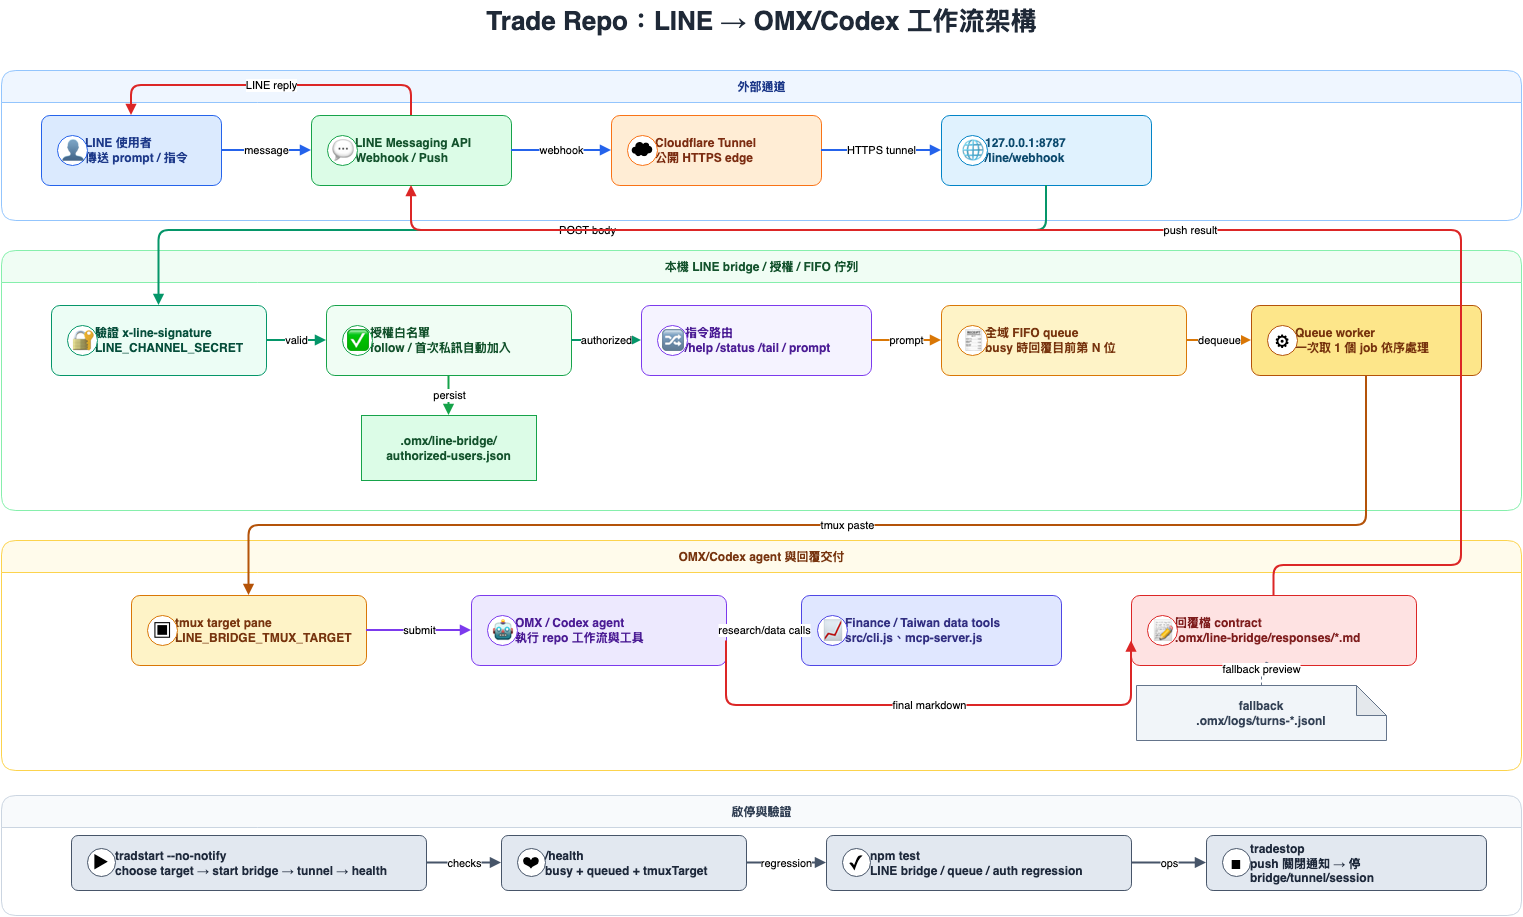
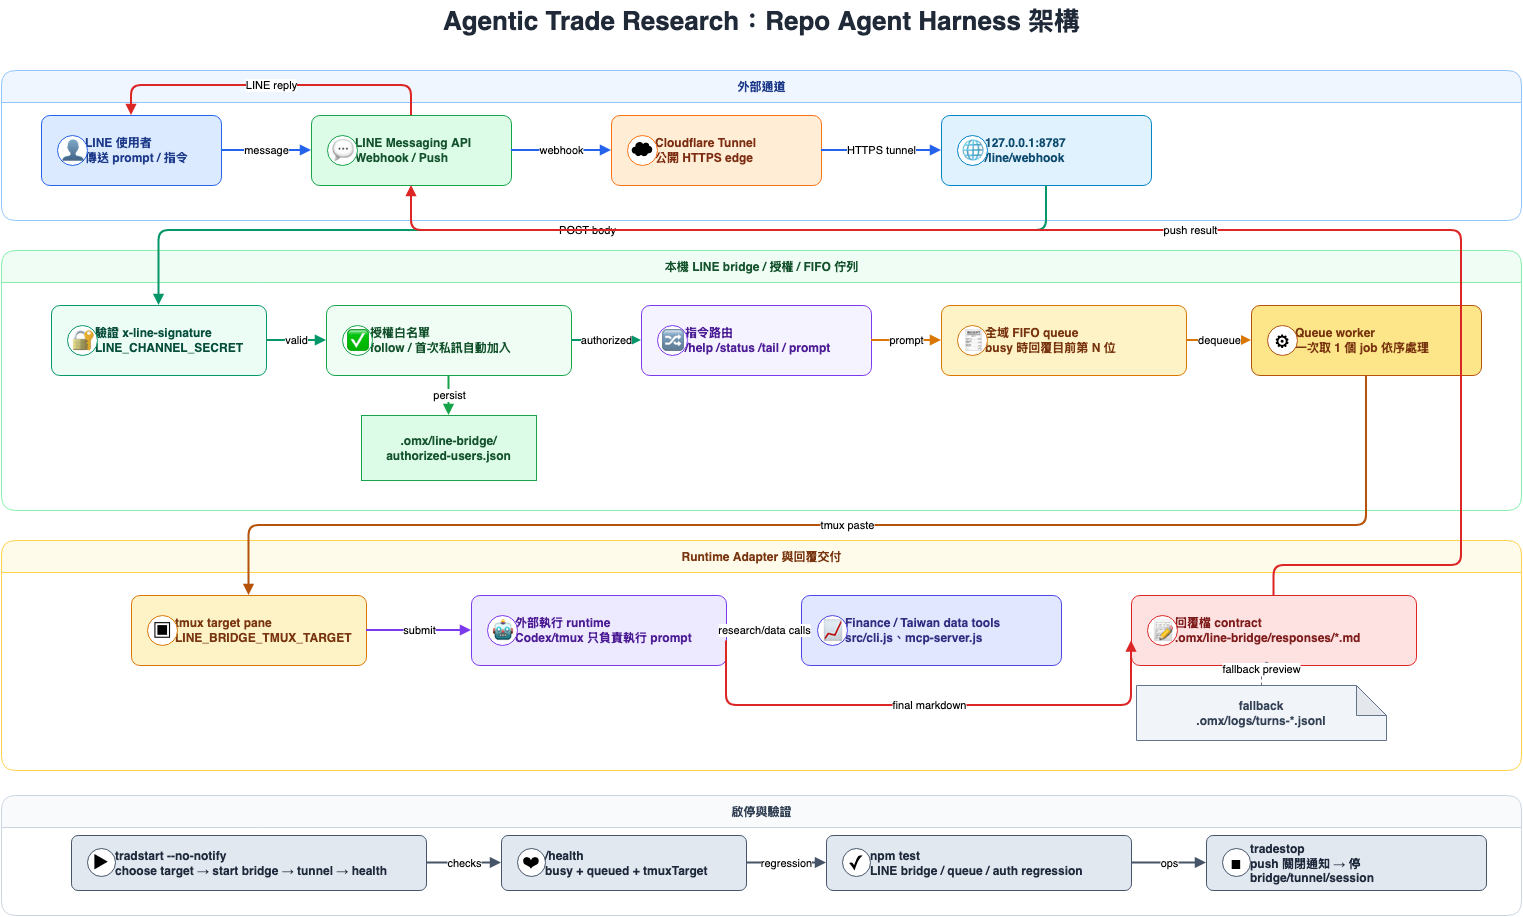
Clarify the repo-native agent harness architecture
Constraint: Portfolio README should describe this repository's own harness modules, not external OMX/Codex agent internals.
Rejected: Present OMX native agents as repo architecture | those agents are external runtime surfaces, not checked-in project implementation.
Confidence: high
Scope-risk: narrow
Directive: Keep README and diagram focused on repo modules: LINE bridge, auth, FIFO scheduler, runtime adapter, finance MCP, response dispatcher, ops supervisor.
Tested: Fetched README from origin/main before editing; regenerated PNG from draw.io source; viewed the rendered PNG; verified diff whitespace with git diff --check.
Not-tested: Full npm test not rerun because this is documentation/image-only.

Changed region(s): [[0.2777, 0.0, 0.7098, 0.0611], [0.432, 0.5802, 0.5555, 0.6107], [0.3395, 0.6718, 0.4629, 0.7023]]

diff --git a/README.md b/README.md
@@ -1,67 +1,64 @@
-# Codex Finance Tools
+# Agentic Trade Research
 
-這是一套給 Codex 使用的輕量財經資料 CLI 工具。
+這是一套把 LINE 指令入口、授權白名單、FIFO 任務佇列、tmux runtime adapter 與財經 MCP/CLI 工具串成一條本機 agent workflow 的研究 harness。
 
 重點：
 
 - **Codex 負責分析與推理**：使用你現有的 Codex / ChatGPT 額度。
-- **本 repo 只負責抓資料**：從外部財經資料 API 取得資料，輸出 JSON 或 Markdown。
-- **Agent workflow management harness**：LINE、tmux、MCP、OMX/Codex 與資料工具被包成一個可啟停、可排隊、可驗證的本機 agent 操作平台。
+- **本 repo 負責 agent harness 與資料工具**：把 LINE webhook、授權、排程、tmux runtime adapter、MCP/CLI 金融資料工具與回覆交付串成可運作的本機 agent workflow。
+- **低 token evidence pipeline**：MCP 預設 `compact-json`，並提供 `research-pack`、`outputFields`、`maxRows`，讓 agent 讀到精簡但可追溯的資料輸出。
 
-## 作品集版架構總覽：Agent Workflow Management Harness
+## 作品集版架構總覽：Repo-native Agent Harness
 
-這個 repo 的核心不是單一 CLI，而是一個 **本機 agent harness**：
+這個 repo 本身定義的是一組 **repo-native logical agents / harness modules**。它不把外部 Codex/OMX 的 agent/skill 當成專案內容，而是提供一個可由手機操作、可授權、可排隊、可呼叫金融資料工具、可交付 Markdown 結果的本機 agent workflow harness。
 
-1. **LINE bridge** 把手機訊息轉成可控的 Codex/tmux prompt。
-2. **授權層** 用 LINE friend / userId 白名單控管誰能操作本機 agent。
-3. **全域 FIFO queue** 讓多位 LINE 使用者同時送 prompt 時不漏訊息，依序送進同一個 Codex/tmux pane。
-4. **Codex / OMX runtime** 負責推理、規劃、修改 repo、驗證與產生回覆。
-5. **trade-finance MCP / CLI tools** 提供低 token 的結構化金融資料工具。
-6. **response-file contract** 要求 Codex 把完整 LINE-safe Markdown 回覆寫入 `.omx/line-bridge/responses/*.md`，再由 bridge push 回原使用者。
+主要資料流：
+
+1. **Message Intake Agent** 接收 LINE webhook，驗證簽章並解析使用者訊息。
+2. **Authorization Agent** 透過 LINE friend / userId 本機白名單控管可操作者。
+3. **Command Router Agent** 區分 `/help`、`/status`、`/tail` 與一般 prompt。
+4. **FIFO Scheduler Agent** 在多使用者同時送 prompt 時排隊，回覆目前第 N 位，避免遺失任務。
+5. **Runtime Adapter Agent** 把排程後的 prompt 安全送進指定 tmux pane，讓外部 Codex runtime 執行。
+6. **Finance Data Tool Agent** 以 MCP/CLI 方式提供美股、台股、新聞、公告、財報、估值等低 token evidence。
+7. **Response Dispatcher Agent** 讀取 response-file contract 或 fallback turn log，將結果 push 回原 LINE 使用者。
+8. **Ops Supervisor** 負責 `tradstart` / `tradestop`，管理 bridge process、Cloudflare tunnel、tmux target 與 runtime state。
 
 架構圖 PNG：[`docs/diagrams/trade-line-bridge-workflow.png`](docs/diagrams/trade-line-bridge-workflow.png)  
+架構圖 source：[`docs/diagrams/trade-line-bridge-workflow.drawio`](docs/diagrams/trade-line-bridge-workflow.drawio)
 
-![Trade LINE Bridge Workflow](docs/diagrams/trade-line-bridge-workflow.png)
+![Agentic Trade Research Repo Harness](docs/diagrams/trade-line-bridge-workflow.png)
 
-### Agent / workflow 定義在哪裡？
+### Repo 內的 agent / harness modules
 
-這個專案刻意把「repo 內 harness」與「Codex/OMX agent 定義」分層：
+> 這裡的「agent」指本 repo 內負責一段自主流程的 logical agent/module；不是外部 OMX/Codex native agent 定義。
 
-- **Repo 內沒有 checked-in `AGENTS.md`**。目前看到的 AGENTS.md 指令是 OMX/Codex session 注入的 runtime contract，不是這個 repo commit 的檔案。
-- **Codex native agents** 安裝在使用者層：`~/.codex/agents/*.toml`，每個 agent 通常搭配 `~/.codex/prompts/*.md`。
-- **OMX workflow skills** 安裝在：`~/.codex/skills/*/SKILL.md`。
-- **Repo-native workflow prompts** 放在：`workflows/*.md`，它們不是常駐 agent，而是給 Codex 執行投資研究時引用的流程模板。
+| Repo logical agent / module | 主要檔案 | 責任 |
+| --- | --- | --- |
+| Message Intake Agent | `src/line-bridge.js` | 建立 LINE webhook server、驗證 `x-line-signature`、解析 LINE text/follow events |
+| Authorization Agent | `src/line-bridge.js`, `.omx/line-bridge/authorized-users.json`（runtime ignored） | 自動授權加入好友/首次私訊使用者、維護本機白名單、拒絕未授權來源 |
+| Command Router Agent | `src/line-bridge.js` | 處理 `/help`、`/status`、`/tail`、未知指令與一般 prompt |
+| FIFO Scheduler Agent | `src/line-bridge.js` | global FIFO queue、busy 狀態、排隊順位回覆、依序啟動 job |
+| Runtime Adapter Agent | `src/line-bridge.js`, `src/line-bridge-auto.js` | 選擇/確認 tmux target，透過 tmux paste/send-keys 把 prompt 送進外部執行 runtime |
+| Response Dispatcher Agent | `src/line-bridge.js` | 產生 response-file contract、等待 `.omx/line-bridge/responses/*.md`、fallback 到 `.omx/logs/turns-*.jsonl`、切分 LINE push 訊息 |
+| Finance Data Tool Agent | `src/mcp-server.js`, `src/tools.js`, `src/cli.js` | expose MCP `tools/list` / `tools/call` 與 CLI，提供 `research-pack`、台股/美股資料、低 token render controls |
+| Market Data Connectors | `src/financial-datasets.js`, `src/taiwan-market.js` | 封裝 Financial Datasets、FinMind、TWSE、TPEx、Fugle 等外部資料來源 |
+| Ops Supervisor | `src/tradstart.js`, `src/tradstop.js`, `src/trade-runtime.js`, `bin/tradstart`, `bin/tradestop` | 啟停 LINE bridge、Cloudflare tunnel、tmux target/session，寫入/清理 runtime state |
+| Research Workflow Templates | `workflows/*.md` | repo-native 投資研究流程模板：美股 memo、台股 memo、DCF、新聞敘事 triage |
+| Regression Harness | `tests/*.test.js` | 驗證 CLI、MCP、LINE bridge、授權、FIFO queue、tmux target 選擇、runtime state |
 
-主要 agent / workflow surfaces：
+### 外部 runtime 邊界
 
-| 類型 | 名稱 | 定義位置 | 在本 repo 的角色 |
-| --- | --- | --- | --- |
-| Runtime contract | AGENTS.md / OMX session contract | session 注入；本 repo 目前無 checked-in `AGENTS.md` | 規範 agent 自主執行、驗證、技能路由、子代理協作與安全邊界 |
-| Native agent | `explore` | `~/.codex/agents/explore.toml` + `~/.codex/prompts/explore.md` | 快速 repo lookup、檔案/符號/關係探索 |
-| Native agent | `researcher` | `~/.codex/agents/researcher.toml` + `~/.codex/prompts/researcher.md` | 官方文件、外部資料、Jina/web research |
-| Native agent | `dependency-expert` | `~/.codex/agents/dependency-expert.toml` + `~/.codex/prompts/dependency-expert.md` | MCP / SDK / package 採用與替換評估 |
-| Native agent | `executor` | `~/.codex/agents/executor.toml` + `~/.codex/prompts/executor.md` | 實作功能、重構、修 bug |
-| Native agent | `debugger` | `~/.codex/agents/debugger.toml` + `~/.codex/prompts/debugger.md` | 追 log、定位 webhook / queue / tmux 問題 |
-| Native agent | `test-engineer` | `~/.codex/agents/test-engineer.toml` + `~/.codex/prompts/test-engineer.md` | 設計 regression test、排隊/授權/工具測試 |
-| Native agent | `verifier` | `~/.codex/agents/verifier.toml` + `~/.codex/prompts/verifier.md` | 驗證完成條件、確認測試證據 |
-| Native agent | `code-reviewer` | `~/.codex/agents/code-reviewer.toml` + `~/.codex/prompts/code-reviewer.md` | 最終 code review 與風險檢查 |
-| Workflow skill | `$plan` / `$ralplan` | `~/.codex/skills/plan/SKILL.md`, `~/.codex/skills/ralplan/SKILL.md` | 複雜改動前的計畫與測試形狀 |
-| Workflow skill | `$ralph` / `$ultragoal` | `~/.codex/skills/ralph/SKILL.md`, `~/.codex/skills/ultragoal/SKILL.md` | 長任務 self-loop、目標拆解與驗證 |
-| Workflow skill | `$team` | `~/.codex/skills/team/SKILL.md` | 多 lane 平行 execution / verification |
-| Workflow skill | `$code-review` / `$ultraqa` | `~/.codex/skills/code-review/SKILL.md`, `~/.codex/skills/ultraqa/SKILL.md` | adversarial review、端到端 QA |
-| Repo workflow prompt | `research-memo` | `workflows/research-memo.md` | 美股 evidence-first 投資 memo |
-| Repo workflow prompt | `taiwan-research-memo` | `workflows/taiwan-research-memo.md` | 台股研究 memo |
-| Repo workflow prompt | `dcf-valuation` | `workflows/dcf-valuation.md` | DCF / 估值流程 |
-| Repo workflow prompt | `x-research` | `workflows/x-research.md` | 市場敘事 / 新聞 triage |
+- **Codex / ChatGPT / OMX 不屬於本 repo 的 agent 實作**；它們是這個 harness 可以驅動的外部推理 runtime。
+- 本 repo 的責任是把任務可靠送進 runtime、提供資料工具、保存/交付結果、並用 tests 確保流程可回歸。
+- `.env`、`.omx/**`、LINE 白名單、回覆檔、logs、runtime state 都是本機 runtime artifacts，已由 `.gitignore` 排除，不進 GitHub。
 
 ### Harness 工程亮點
 
-- **LINE → Codex 的可靠交付**：`src/line-bridge.js` 驗簽、授權、排隊、寫入 response-file contract，避免 LINE push 回覆被截斷或混線。
+- **LINE → runtime 的可靠交付**：`src/line-bridge.js` 驗簽、授權、排隊、注入 response-file contract，避免 LINE push 回覆被截斷或混線。
 - **多使用者短期佇列化**：global FIFO queue 讓多位使用者同時送 prompt 時會排隊，不會直接拒絕或遺失訊息。
 - **可重啟的 ops harness**：`src/tradstart.js` / `src/tradstop.js` 管理 tmux target、bridge process、Cloudflare tunnel 與 runtime state。
 - **低 token MCP 工具層**：`src/mcp-server.js` 預設 `compact-json`，支援 `outputFields` / `maxRows` / `research-pack`，把「壓縮輸出」和「保留資料覆蓋」分開。
 - **驗證導向**：`tests/*.test.js` 覆蓋 CLI、MCP、LINE bridge、授權、queue、tmux target 選擇與 runtime state。
-
 
 ## 設定 `.env`
 
